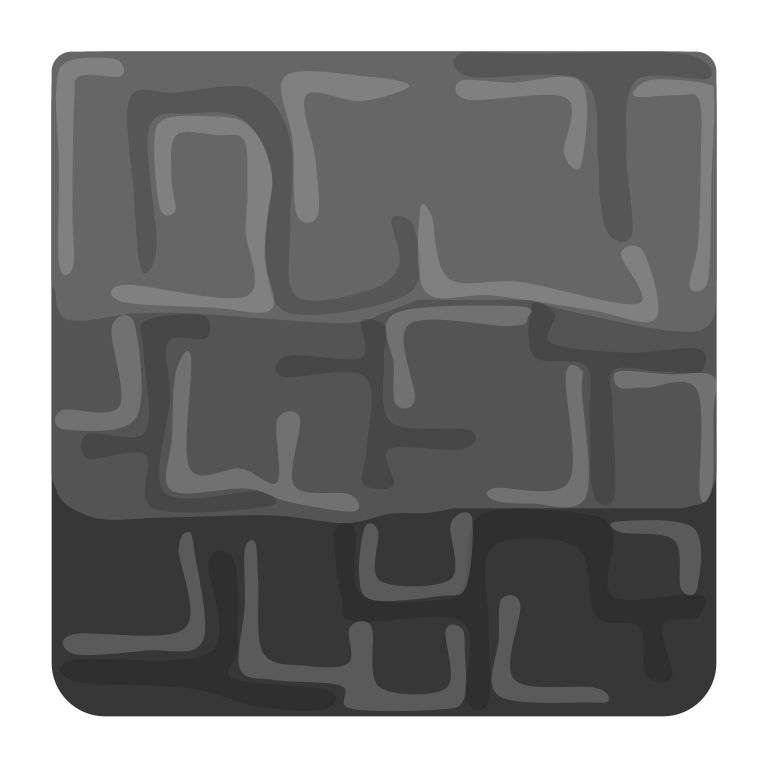
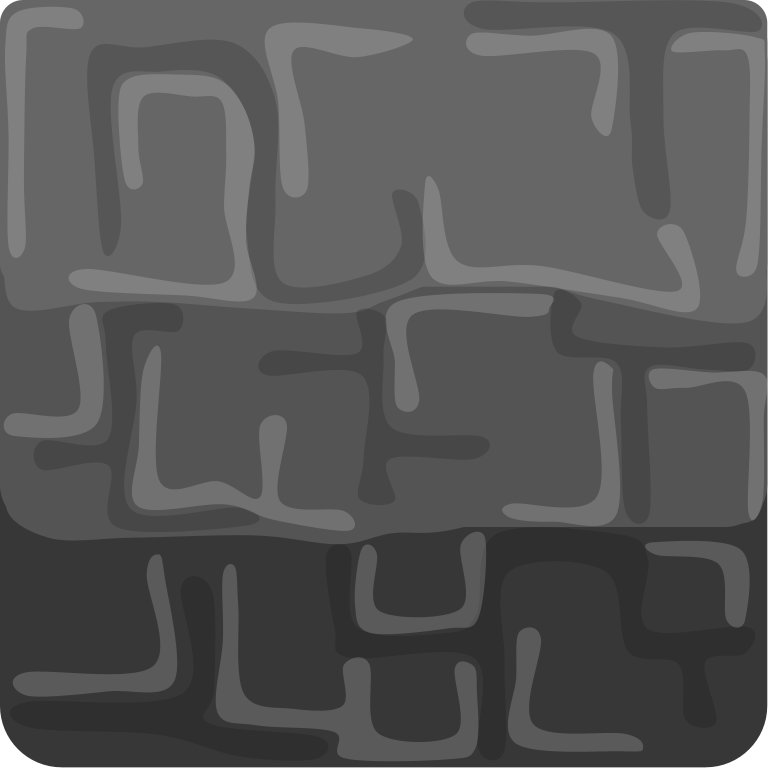
Wall texture update

diff --git a/app.js b/app.js
@@ -190,7 +190,7 @@ var structureW = structureBlueprint[0].length; // width
 var structureH = structureBlueprint.length; // height (making it a square)
 var structureCenter = {x:0,y:0}
 var wallSize = 100
-var wallImgSize = wallSize * 1.15
+var wallImgSize = wallSize * 1
 var escapesData = [] //for boss defeats
 for(let r = 0; r < structureW; r++){
     for(let c = 0; c < structureH; c++){
